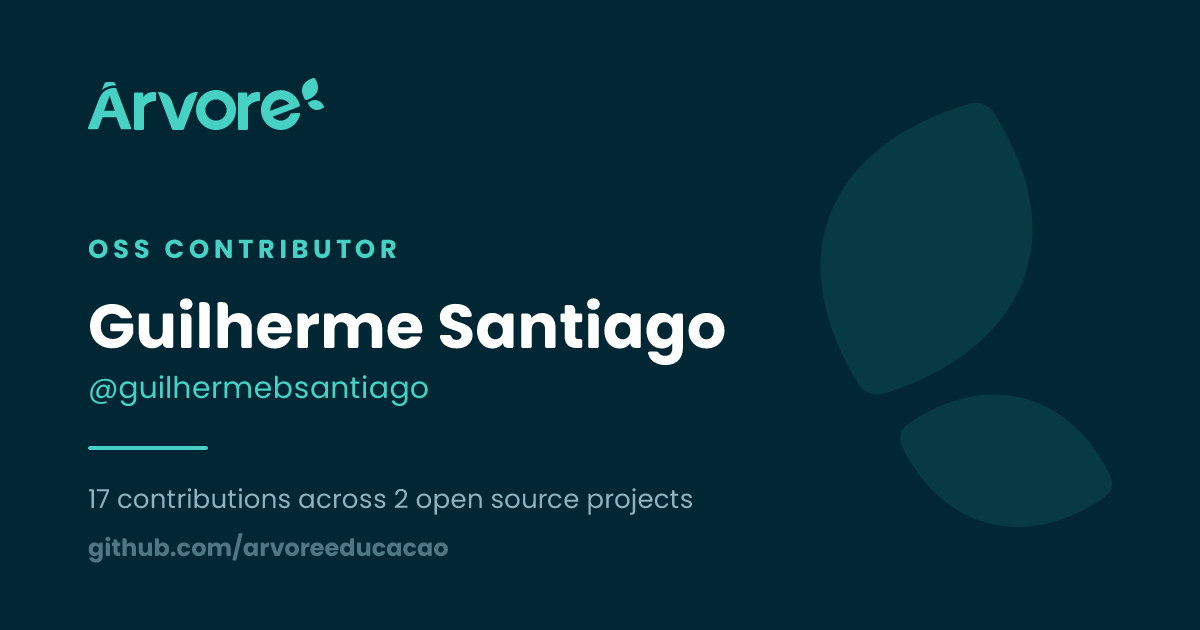
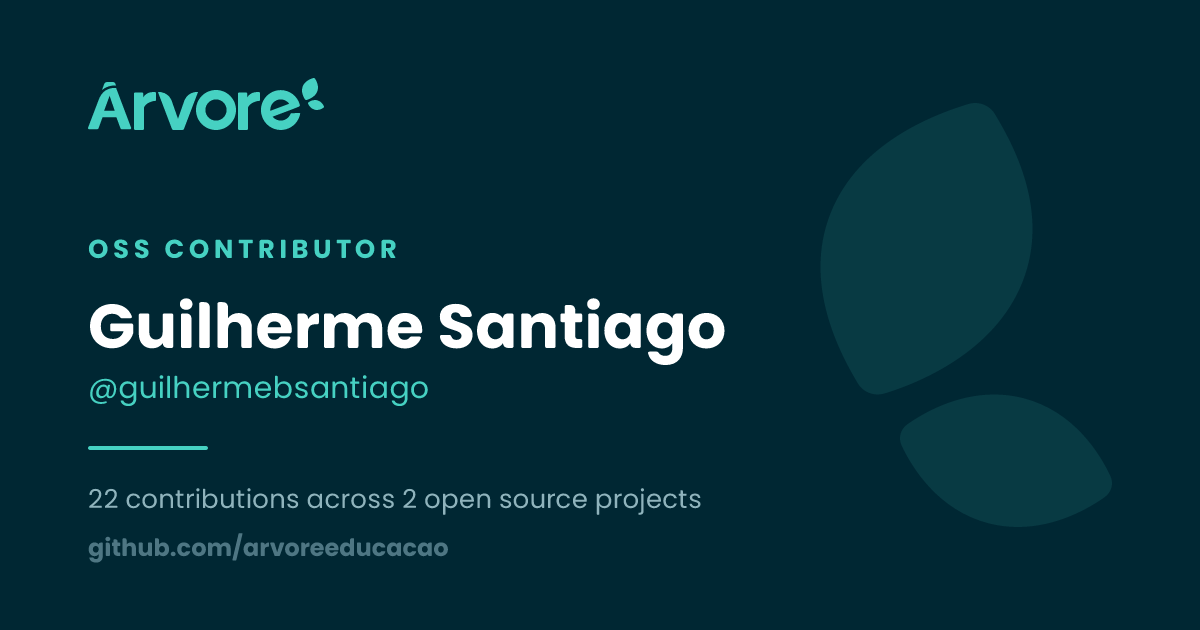
chore: refresh contributor badges, cards and site

Changed region(s): [[0.0617, 0.754, 0.5858, 0.8143]]

diff --git a/index.html b/index.html
@@ -88,7 +88,7 @@
             <img src="https://avatars.githubusercontent.com/u/50217712?v=4" alt="" width="44" height="44" loading="lazy">
             <span class="roster-text">
               <span class="roster-name">Ricardo Raposo</span>
-              <span class="roster-meta">@ricardoraposo · 326 contributions in 6 projects</span>
+              <span class="roster-meta">@ricardoraposo · 327 contributions in 6 projects</span>
             </span>
           </button>
         </li>
@@ -124,7 +124,7 @@
             <img src="https://avatars.githubusercontent.com/u/86807475?v=4" alt="" width="44" height="44" loading="lazy">
             <span class="roster-text">
               <span class="roster-name">Guilherme Santiago</span>
-              <span class="roster-meta">@guilhermebsantiago · 17 contributions in 2 projects</span>
+              <span class="roster-meta">@guilhermebsantiago · 22 contributions in 2 projects</span>
             </span>
           </button>
         </li>
@@ -217,6 +217,6 @@
 <template id="icon-close"><svg viewBox="0 0 24 24" aria-hidden="true" focusable="false"><path d="M5.643 5.069 C 5.291 5.193,5.000 5.614,5.000 6.000 C 5.000 6.080,5.029 6.234,5.065 6.343 C 5.124 6.522,5.377 6.788,7.854 9.270 L 10.579 12.000 7.854 14.730 C 5.377 17.212,5.124 17.478,5.065 17.657 C 4.936 18.047,5.021 18.423,5.299 18.701 C 5.577 18.979,5.953 19.064,6.343 18.935 C 6.522 18.876,6.788 18.623,9.270 16.146 L 12.000 13.421 14.730 16.146 C 17.212 18.623,17.478 18.876,17.657 18.935 C 18.047 19.064,18.423 18.979,18.701 18.701 C 18.979 18.423,19.064 18.047,18.935 17.657 C 18.876 17.478,18.623 17.212,16.146 14.730 L 13.421 12.000 16.146 9.270 C 18.623 6.788,18.876 6.522,18.935 6.343 C 19.064 5.953,18.979 5.577,18.701 5.299 C 18.423 5.021,18.047 4.936,17.657 5.065 C 17.478 5.124,17.212 5.377,14.730 7.854 L 12.000 10.579 9.270 7.854 C 6.788 5.377,6.522 5.124,6.343 5.065 C 6.101 4.985,5.876 4.986,5.643 5.069 " fill="currentColor" fill-rule="evenodd"/></svg></template>
 <template id="icon-copy"><svg viewBox="0 0 24 24" aria-hidden="true" focusable="false"><path d="M11.480 0.024 C 9.805 0.231,8.349 1.226,7.580 2.690 L 7.421 2.994 5.940 3.011 C 4.324 3.028,4.307 3.031,3.759 3.283 C 3.069 3.601,2.507 4.179,2.233 4.850 C 1.987 5.455,2.000 4.976,2.000 13.500 C 2.000 22.024,1.987 21.545,2.233 22.150 C 2.518 22.850,3.150 23.482,3.850 23.767 C 4.453 24.012,4.026 24.000,12.000 24.000 C 19.974 24.000,19.547 24.012,20.150 23.767 C 20.850 23.482,21.482 22.850,21.767 22.150 C 22.013 21.545,22.000 22.024,22.000 13.500 C 22.000 4.975,22.013 5.455,21.766 4.849 C 21.499 4.193,20.964 3.633,20.296 3.312 C 19.710 3.030,19.702 3.029,18.060 3.011 L 16.579 2.994 16.420 2.690 C 15.734 1.384,14.485 0.433,13.042 0.117 C 12.671 0.036,11.803 -0.015,11.480 0.024 M12.740 2.098 C 12.872 2.132,13.150 2.244,13.357 2.345 C 14.044 2.682,14.578 3.318,14.846 4.119 C 14.985 4.533,15.142 4.746,15.417 4.893 C 15.576 4.978,15.626 4.980,17.420 5.000 C 19.249 5.020,19.261 5.021,19.450 5.114 C 19.555 5.165,19.694 5.272,19.759 5.351 C 20.017 5.664,20.000 5.093,20.000 13.500 C 20.000 22.083,20.026 21.376,19.701 21.701 C 19.377 22.025,20.023 22.000,12.000 22.000 C 3.977 22.000,4.623 22.025,4.299 21.701 C 3.974 21.376,4.000 22.083,4.000 13.500 C 4.000 5.093,3.983 5.664,4.241 5.351 C 4.306 5.272,4.445 5.165,4.550 5.114 C 4.739 5.021,4.751 5.020,6.580 5.000 C 8.374 4.980,8.424 4.978,8.583 4.893 C 8.858 4.746,9.015 4.533,9.154 4.119 C 9.327 3.603,9.553 3.238,9.936 2.859 C 10.367 2.433,10.822 2.191,11.440 2.058 C 11.759 1.990,12.403 2.009,12.740 2.098 M11.600 4.083 C 10.955 4.375,10.800 5.203,11.298 5.700 C 11.691 6.093,12.309 6.093,12.702 5.700 C 13.329 5.073,12.886 4.002,12.000 4.002 C 11.864 4.002,11.711 4.033,11.600 4.083 M7.664 10.063 C 6.977 10.314,6.783 11.185,7.298 11.700 C 7.616 12.018,7.335 12.000,12.000 12.000 C 16.665 12.000,16.384 12.018,16.702 11.700 C 17.223 11.179,17.021 10.307,16.322 10.061 C 16.071 9.972,7.906 9.974,7.664 10.063 M7.664 16.063 C 6.977 16.314,6.783 17.185,7.298 17.700 C 7.616 18.018,7.335 18.000,12.000 18.000 C 16.665 18.000,16.384 18.018,16.702 17.700 C 17.223 17.179,17.021 16.307,16.322 16.061 C 16.071 15.972,7.906 15.974,7.664 16.063 " fill="currentColor" fill-rule="evenodd"/></svg></template>
 <template id="icon-external"><svg viewBox="0 0 24 24" aria-hidden="true" focusable="false"><path d="M12.664 4.063 C 12.436 4.146,12.257 4.297,12.131 4.511 C 12.038 4.669,12.020 4.746,12.020 4.980 C 12.020 5.498,11.855 5.329,15.260 8.307 L 18.315 10.980 10.527 11.000 C 4.202 11.016,2.717 11.030,2.620 11.073 C 1.839 11.417,1.797 12.515,2.550 12.886 L 2.740 12.980 10.527 13.000 L 18.315 13.020 15.260 15.693 C 11.855 18.671,12.020 18.502,12.020 19.020 C 12.020 19.255,12.038 19.331,12.133 19.492 C 12.400 19.947,12.969 20.122,13.432 19.893 C 13.517 19.851,15.431 18.203,17.684 16.231 C 20.690 13.602,21.808 12.600,21.881 12.473 C 22.023 12.225,22.023 11.775,21.881 11.527 C 21.808 11.400,20.728 10.432,17.843 7.907 C 15.676 6.011,13.811 4.384,13.699 4.291 C 13.361 4.012,13.012 3.935,12.664 4.063 " fill="currentColor" fill-rule="evenodd"/></svg></template>
-<script type="application/json" id="roster-data">{"base":"https://oss.arvore.com.br","org":"arvoreeducacao","contributors":[{"login":"Joao208","name":"João Augusto","avatar":"https://avatars.githubusercontent.com/u/59159025?v=4","url":"https://github.com/Joao208","contributions":621,"repositories":["arvore-browser-extensions","arvore-cursor","arvore-mcp-servers","arvore-oss-badge","arvore-pi-extensions","arvore-theme","arvore-tunnel","bug-jar","canopy","docusaurus-to-md","graphrag-sql","rhm"]},{"login":"ricardoraposo","name":"Ricardo Raposo","avatar":"https://avatars.githubusercontent.com/u/50217712?v=4","url":"https://github.com/ricardoraposo","contributions":326,"repositories":["arvore-mcp-servers","arvore-pi-extensions","arvore-theme","bug-jar","canopy","rhm"]},{"login":"rafaelandrade","name":null,"avatar":"https://avatars.githubusercontent.com/u/29763954?v=4","url":"https://github.com/rafaelandrade","contributions":151,"repositories":["arvore-mcp-servers","arvore-pi-extensions","canopy","rhm"]},{"login":"Jott4","name":"João Victor Cunha","avatar":"https://avatars.githubusercontent.com/u/53587274?v=4","url":"https://github.com/Jott4","contributions":50,"repositories":["arvore-mcp-servers","arvore-pi-extensions","power-posthog","rhm"]},{"login":"umaArtemis","name":"Artemis","avatar":"https://avatars.githubusercontent.com/u/219741073?v=4","url":"https://github.com/umaArtemis","contributions":23,"repositories":["arvore-browser-extensions","arvore-pi-extensions","rhm"]},{"login":"guilhermebsantiago","name":"Guilherme Santiago","avatar":"https://avatars.githubusercontent.com/u/86807475?v=4","url":"https://github.com/guilhermebsantiago","contributions":17,"repositories":["arvore-mcp-servers","arvore-pi-extensions"]},{"login":"VitorPiovezan","name":"Vitor Piovezan","avatar":"https://avatars.githubusercontent.com/u/56170034?v=4","url":"https://github.com/VitorPiovezan","contributions":13,"repositories":["arvore-cursor","arvore-mcp-servers","rhm"]},{"login":"anderkonzen","name":"Anderson Konzen","avatar":"https://avatars.githubusercontent.com/u/1413997?v=4","url":"https://github.com/anderkonzen","contributions":7,"repositories":["partner-api-examples"]},{"login":"henriqueberlesi","name":"Henrique Berlesi","avatar":"https://avatars.githubusercontent.com/u/12514187?v=4","url":"https://github.com/henriqueberlesi","contributions":2,"repositories":["partner-api-examples"]},{"login":"revoltaxz","name":"Guilherme Revolta","avatar":"https://avatars.githubusercontent.com/u/13983654?v=4","url":"https://github.com/revoltaxz","contributions":2,"repositories":["partner-api-examples"]},{"login":"pedro-adas","name":"Pedro Adas","avatar":"https://avatars.githubusercontent.com/u/29437772?v=4","url":"https://github.com/pedro-adas","contributions":1,"repositories":["book-base-matcher"]},{"login":"xtaveira","name":"Davi Taveira","avatar":"https://avatars.githubusercontent.com/u/96428113?v=4","url":"https://github.com/xtaveira","contributions":1,"repositories":["rhm"]}]}</script>
+<script type="application/json" id="roster-data">{"base":"https://oss.arvore.com.br","org":"arvoreeducacao","contributors":[{"login":"Joao208","name":"João Augusto","avatar":"https://avatars.githubusercontent.com/u/59159025?v=4","url":"https://github.com/Joao208","contributions":621,"repositories":["arvore-browser-extensions","arvore-cursor","arvore-mcp-servers","arvore-oss-badge","arvore-pi-extensions","arvore-theme","arvore-tunnel","bug-jar","canopy","docusaurus-to-md","graphrag-sql","rhm"]},{"login":"ricardoraposo","name":"Ricardo Raposo","avatar":"https://avatars.githubusercontent.com/u/50217712?v=4","url":"https://github.com/ricardoraposo","contributions":327,"repositories":["arvore-mcp-servers","arvore-pi-extensions","arvore-theme","bug-jar","canopy","rhm"]},{"login":"rafaelandrade","name":null,"avatar":"https://avatars.githubusercontent.com/u/29763954?v=4","url":"https://github.com/rafaelandrade","contributions":151,"repositories":["arvore-mcp-servers","arvore-pi-extensions","canopy","rhm"]},{"login":"Jott4","name":"João Victor Cunha","avatar":"https://avatars.githubusercontent.com/u/53587274?v=4","url":"https://github.com/Jott4","contributions":50,"repositories":["arvore-mcp-servers","arvore-pi-extensions","power-posthog","rhm"]},{"login":"umaArtemis","name":"Artemis","avatar":"https://avatars.githubusercontent.com/u/219741073?v=4","url":"https://github.com/umaArtemis","contributions":23,"repositories":["arvore-browser-extensions","arvore-pi-extensions","rhm"]},{"login":"guilhermebsantiago","name":"Guilherme Santiago","avatar":"https://avatars.githubusercontent.com/u/86807475?v=4","url":"https://github.com/guilhermebsantiago","contributions":22,"repositories":["arvore-mcp-servers","arvore-pi-extensions"]},{"login":"VitorPiovezan","name":"Vitor Piovezan","avatar":"https://avatars.githubusercontent.com/u/56170034?v=4","url":"https://github.com/VitorPiovezan","contributions":13,"repositories":["arvore-cursor","arvore-mcp-servers","rhm"]},{"login":"anderkonzen","name":"Anderson Konzen","avatar":"https://avatars.githubusercontent.com/u/1413997?v=4","url":"https://github.com/anderkonzen","contributions":7,"repositories":["partner-api-examples"]},{"login":"henriqueberlesi","name":"Henrique Berlesi","avatar":"https://avatars.githubusercontent.com/u/12514187?v=4","url":"https://github.com/henriqueberlesi","contributions":2,"repositories":["partner-api-examples"]},{"login":"revoltaxz","name":"Guilherme Revolta","avatar":"https://avatars.githubusercontent.com/u/13983654?v=4","url":"https://github.com/revoltaxz","contributions":2,"repositories":["partner-api-examples"]},{"login":"pedro-adas","name":"Pedro Adas","avatar":"https://avatars.githubusercontent.com/u/29437772?v=4","url":"https://github.com/pedro-adas","contributions":1,"repositories":["book-base-matcher"]},{"login":"xtaveira","name":"Davi Taveira","avatar":"https://avatars.githubusercontent.com/u/96428113?v=4","url":"https://github.com/xtaveira","contributions":1,"repositories":["rhm"]}]}</script>
 </body>
 </html>
